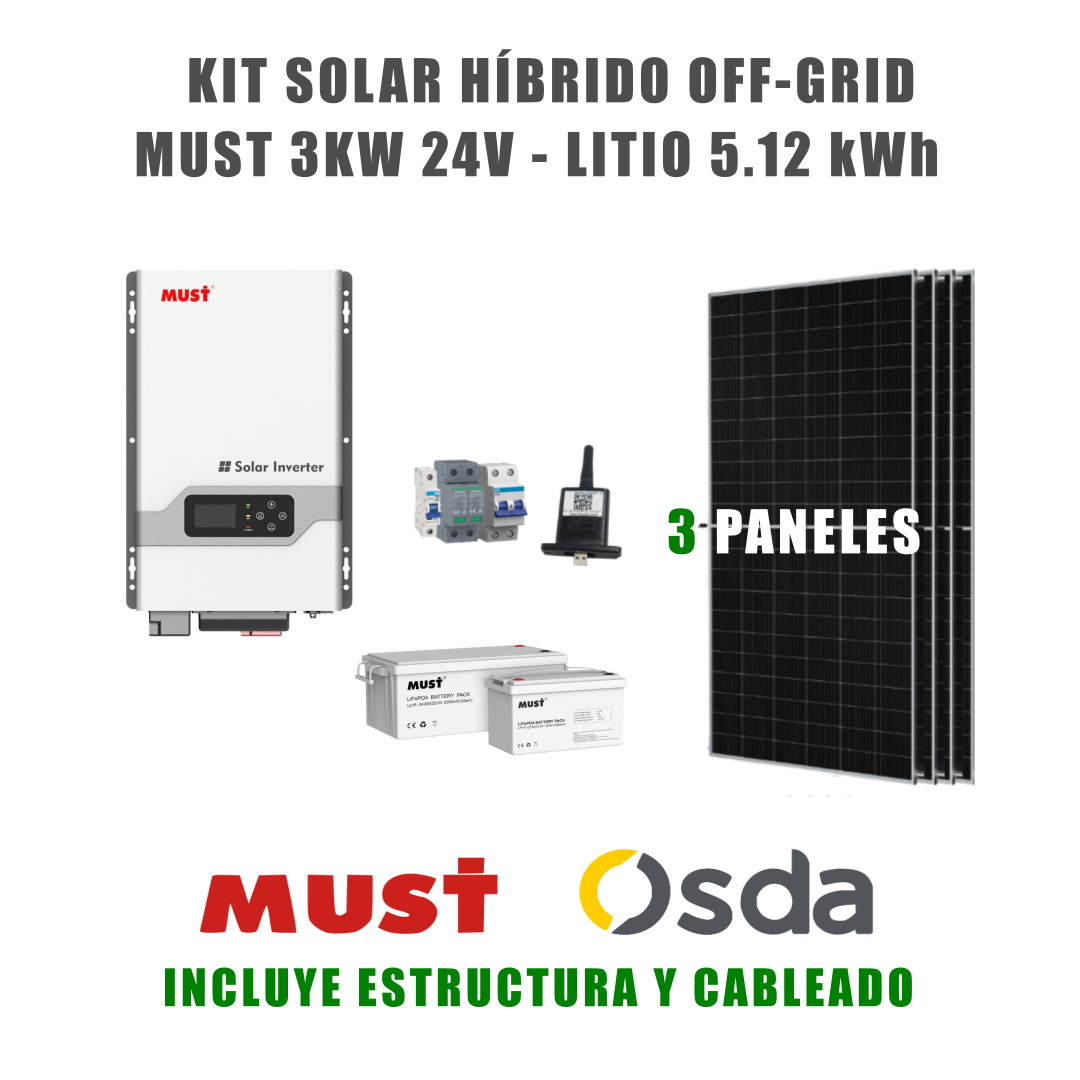
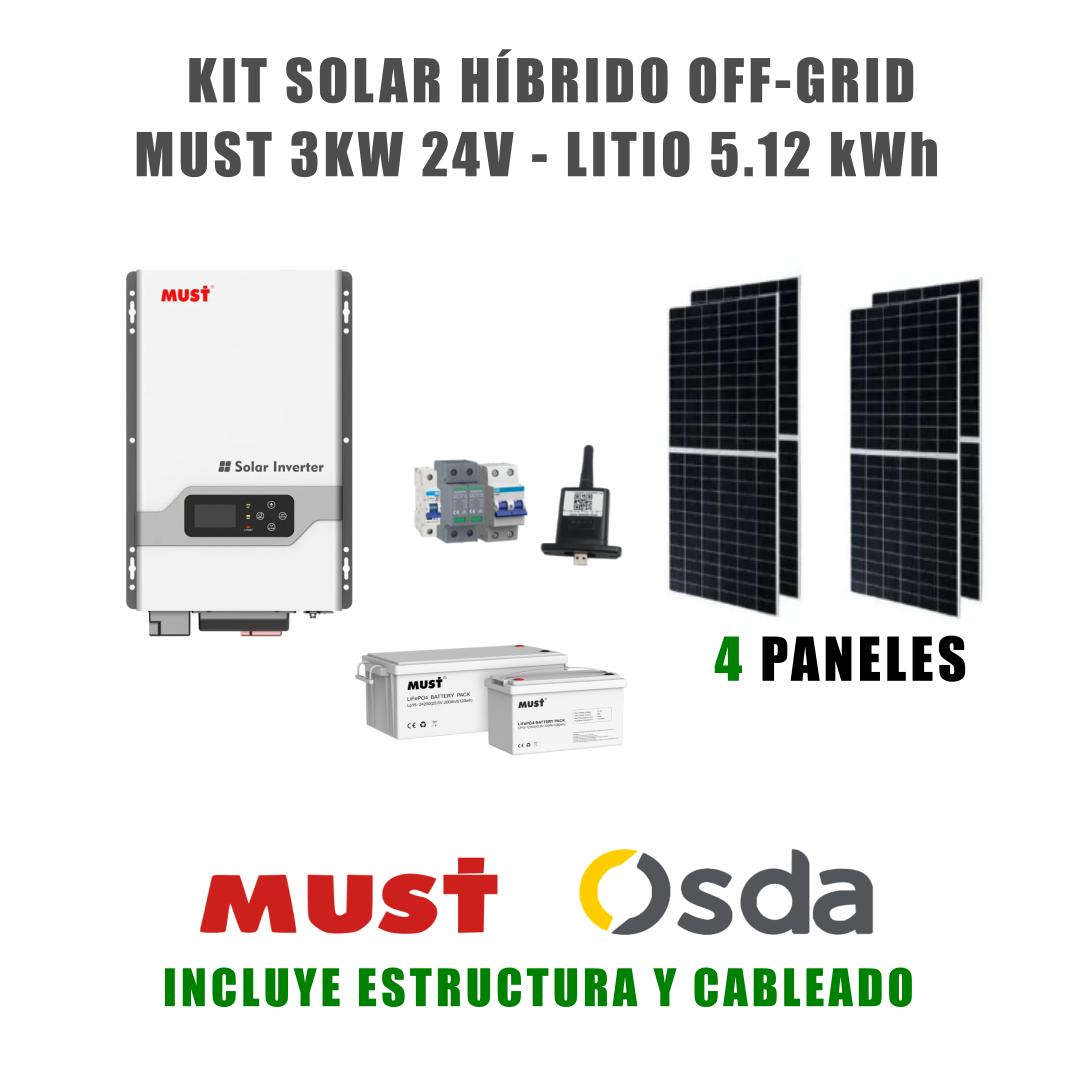
added third product

Changed region(s): [[0.6111, 0.2444, 0.9167, 0.7333]]

diff --git a/app/(default)/store/[id]/page.tsx b/app/(default)/store/[id]/page.tsx
@@ -18,7 +18,11 @@ export function generateStaticParams() {
   }));
 }
 
-export default async function ProductPage({ params }: { params: Promise<{ id: string }> }) {
+export default async function ProductPage({
+  params,
+}: {
+  params: Promise<{ id: string }>;
+}) {
   const { id } = await params;
   const product = products.find((p) => p.id === id);
 
@@ -72,9 +76,7 @@ export default async function ProductPage({ params }: { params: Promise<{ id: st
                   <div className="text-3xl font-bold text-indigo-400">
                     {product.priceFormatted}
                   </div>
-                  <div className="mt-2 text-sm text-gray-400">
-                    IVA Incluido
-                  </div>
+                  <div className="mt-2 text-sm text-gray-400">IVA Incluido</div>
                 </div>
 
                 <div className="border-t border-gray-700/50 pt-8">
@@ -82,19 +84,21 @@ export default async function ProductPage({ params }: { params: Promise<{ id: st
                     Especificaciones del Sistema
                   </h2>
                   <div className="space-y-4">
-                    {Object.entries(product.specifications).map(([key, value]) => (
-                      <div
-                        key={key}
-                        className="flex flex-col sm:flex-row sm:justify-between py-2 border-b border-gray-800 last:border-0"
-                      >
-                        <span className="text-gray-400 font-medium mb-1 sm:mb-0">
-                          {key}
-                        </span>
-                        <span className="text-gray-200 text-right">
-                          {value}
-                        </span>
-                      </div>
-                    ))}
+                    {Object.entries(product.specifications).map(
+                      ([key, value]) => (
+                        <div
+                          key={key}
+                          className="flex flex-col sm:flex-row sm:justify-between py-2 border-b border-gray-800 last:border-0"
+                        >
+                          <span className="text-gray-400 font-medium mb-1 sm:mb-0">
+                            {key}
+                          </span>
+                          <span className="text-gray-200 text-right">
+                            {value}
+                          </span>
+                        </div>
+                      ),
+                    )}
                   </div>
                 </div>
 
@@ -122,36 +126,61 @@ export default async function ProductPage({ params }: { params: Promise<{ id: st
                     ¿Qué puedes alimentar con este Kit Solar?
                   </h2>
                   <p className="text-gray-400">
-                    Capacidad real de uso – Kit Solar Híbrido 3 kW / Batería 5.12 kWh
+                    Capacidad real de uso estimada basada en la configuración
+                    del sistema
                   </p>
                 </div>
-                
+
                 <div className="rounded-xl border border-gray-800 bg-gray-900/50 overflow-hidden">
                   <Table>
                     <TableHeader className="bg-gray-800/50">
                       <TableRow>
-                        <TableHead className="text-gray-100 font-bold py-4">Equipo / Carga</TableHead>
-                        <TableHead className="text-gray-100 font-bold py-4">Consumo típico</TableHead>
-                        <TableHead className="text-gray-100 font-bold py-4">¿Se puede conectar?</TableHead>
-                        <TableHead className="text-gray-100 font-bold py-4">Tiempo aprox. uso*</TableHead>
-                        <TableHead className="text-gray-100 font-bold py-4">Recomendación</TableHead>
+                        <TableHead className="text-gray-100 font-bold py-4">
+                          Equipo / Carga
+                        </TableHead>
+                        <TableHead className="text-gray-100 font-bold py-4">
+                          Consumo típico
+                        </TableHead>
+                        <TableHead className="text-gray-100 font-bold py-4">
+                          ¿Se puede conectar?
+                        </TableHead>
+                        <TableHead className="text-gray-100 font-bold py-4">
+                          Tiempo aprox. uso*
+                        </TableHead>
+                        <TableHead className="text-gray-100 font-bold py-4">
+                          Recomendación
+                        </TableHead>
                       </TableRow>
                     </TableHeader>
                     <TableBody>
                       {product.usageData.map((item, index) => (
-                        <TableRow key={index} className="border-gray-800 hover:bg-gray-800/30">
-                          <TableCell className="font-medium text-gray-200 py-4">{item.equipment}</TableCell>
-                          <TableCell className="text-gray-300 py-4">{item.consumption}</TableCell>
-                          <TableCell className="text-gray-300 py-4">{item.canConnect}</TableCell>
-                          <TableCell className="text-gray-300 py-4">{item.time}</TableCell>
-                          <TableCell className="text-gray-300 py-4">{item.recommendation}</TableCell>
+                        <TableRow
+                          key={index}
+                          className="border-gray-800 hover:bg-gray-800/30"
+                        >
+                          <TableCell className="font-medium text-gray-200 py-4">
+                            {item.equipment}
+                          </TableCell>
+                          <TableCell className="text-gray-300 py-4">
+                            {item.consumption}
+                          </TableCell>
+                          <TableCell className="text-gray-300 py-4">
+                            {item.canConnect}
+                          </TableCell>
+                          <TableCell className="text-gray-300 py-4">
+                            {item.time}
+                          </TableCell>
+                          <TableCell className="text-gray-300 py-4">
+                            {item.recommendation}
+                          </TableCell>
                         </TableRow>
                       ))}
                     </TableBody>
                   </Table>
                 </div>
                 <div className="mt-4 text-sm text-gray-500 italic">
-                  * Los tiempos son estimados y dependen del estado de carga de la batería y la radiación solar disponible.
+                  * Los tiempos son estimados y dependen del estado de carga de
+                  la batería y la radiación solar disponible.
                 </div>
               </div>
             )}

diff --git a/data/products.ts b/data/products.ts
@@ -22,27 +22,26 @@ export interface Product {
 export const products: Product[] = [
   {
     id: "1",
-    name: "🔆 KIT SOLAR HÍBRIDO OFF-GRID 3 kW",
-    sku: "ESC001-1",
-    price: 9400000,
-    priceFormatted: "$9.400.000",
+    name: "🔆 KIT SOLAR HÍBRIDO OFF-GRID 3 kW (4 PANELES)",
+    sku: "ESC001-2",
+    price: 9900000,
+    priceFormatted: "$9.900.000",
     image: "/images/kitSolar1.png",
     specifications: {
-      "Potencia nominal": "3 kW",
-      "Potencia FV instalada": "2094 Wp",
-      "Voltaje nominal AC de salida": "110-120 VAC(L-N)",
-      "Frecuencia de la red AC": "50Hz/60Hz Configurable",
-      "Generación estimada en un día (para 4 HSP)": "39kWh",
-      "Tensión máxima de entrada fotovoltaica": "270VDC",
-      "Configuración del campo FV": "1 string de 3 paneles de 630Wp",
-      MPPT: "1",
-      "Tipo de batería": "Litio LifePO4",
+      "Potencia nominal del inversor": "3 kW",
+      "Potencia FV instalada": "2520 Wp",
+      "Voltaje nominal AC de salida": "110–120 VAC (L-N)",
+      "Frecuencia de la red AC": "50 Hz / 60 Hz (Configurable)",
+      "Tensión máxima de entrada fotovoltaica": "270 VDC",
+      "Configuración del campo FV": "1 string de 4 paneles solares de 630 Wp",
+      MPPT: "1 (80 A)",
+      "Tipo de batería": "Litio LiFePO₄",
       "Energía nominal de la batería": "5.12 kWh",
-      "Energía utilizable de la batería 80% DoD": "4.1 kWh",
-      "Tensión del sistema de batería": "25.6V",
-      "Capacidad del banco de baterías": "200Ah",
-      "Generación estimada en un día para 4 HSP": "8.4 kWh/día",
-      "Monitoreo y configuración remota": "Sí, desde App Móvil",
+      "Energía utilizable de la batería (80 % DoD)": "≈ 4.1 kWh",
+      "Tensión del sistema de batería": "25.6 V",
+      "Capacidad del banco de baterías": "200 Ah",
+      "Generación estimada diaria (para 4 HSP)": "≈ 10.1 kWh/día",
+      "Monitoreo y configuración remota": "Sí, desde App móvil (según modelo)",
     },
     usageData: [
       {
@@ -84,7 +83,7 @@ export const products: Product[] = [
         equipment: "❄ Nevera eficiente (inverter)",
         consumption: "100–200 W (prom.)",
         canConnect: "✅ Sí",
-        time: "8–10 horas nocturnas",
+        time: "10–12 horas nocturnas",
         recommendation: "Uso recomendado",
       },
       {
@@ -112,7 +111,7 @@ export const products: Product[] = [
         equipment: "❄ Aire acondicionado inverter 9k–12k BTU",
         consumption: "700–1200 W",
         canConnect: "⚠ Limitado",
-        time: "1–3 horas",
+        time: "2–4 horas (diurno)",
         recommendation: "Solo con sol",
       },
       {
